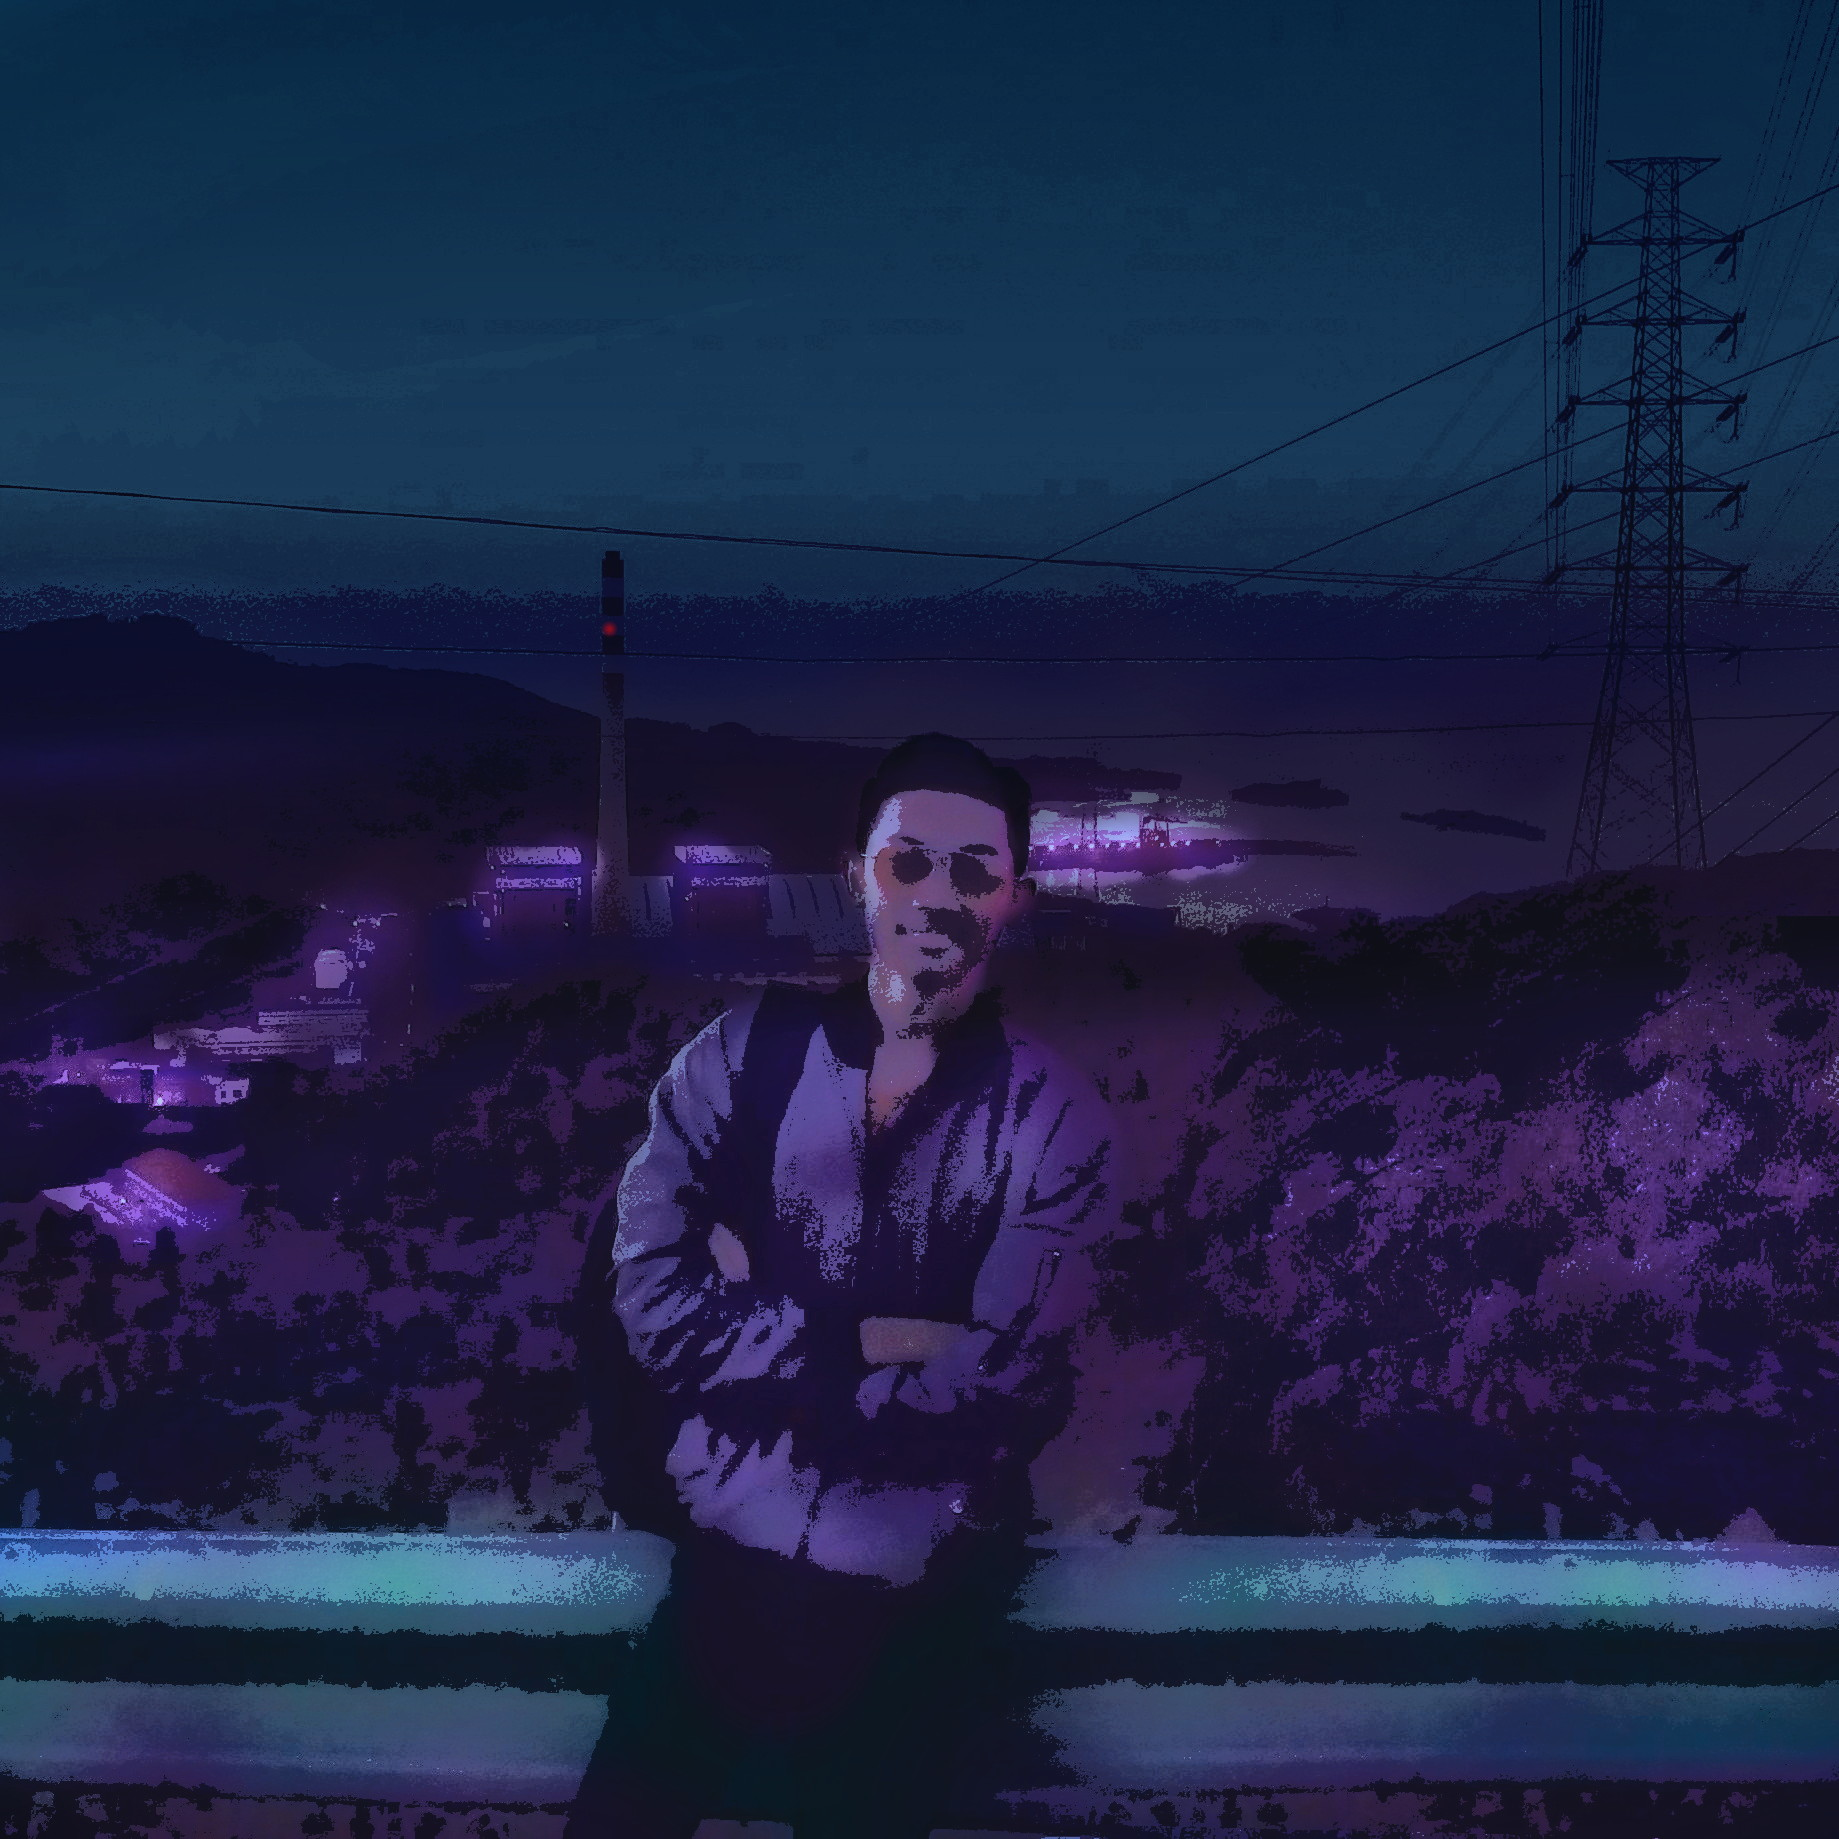
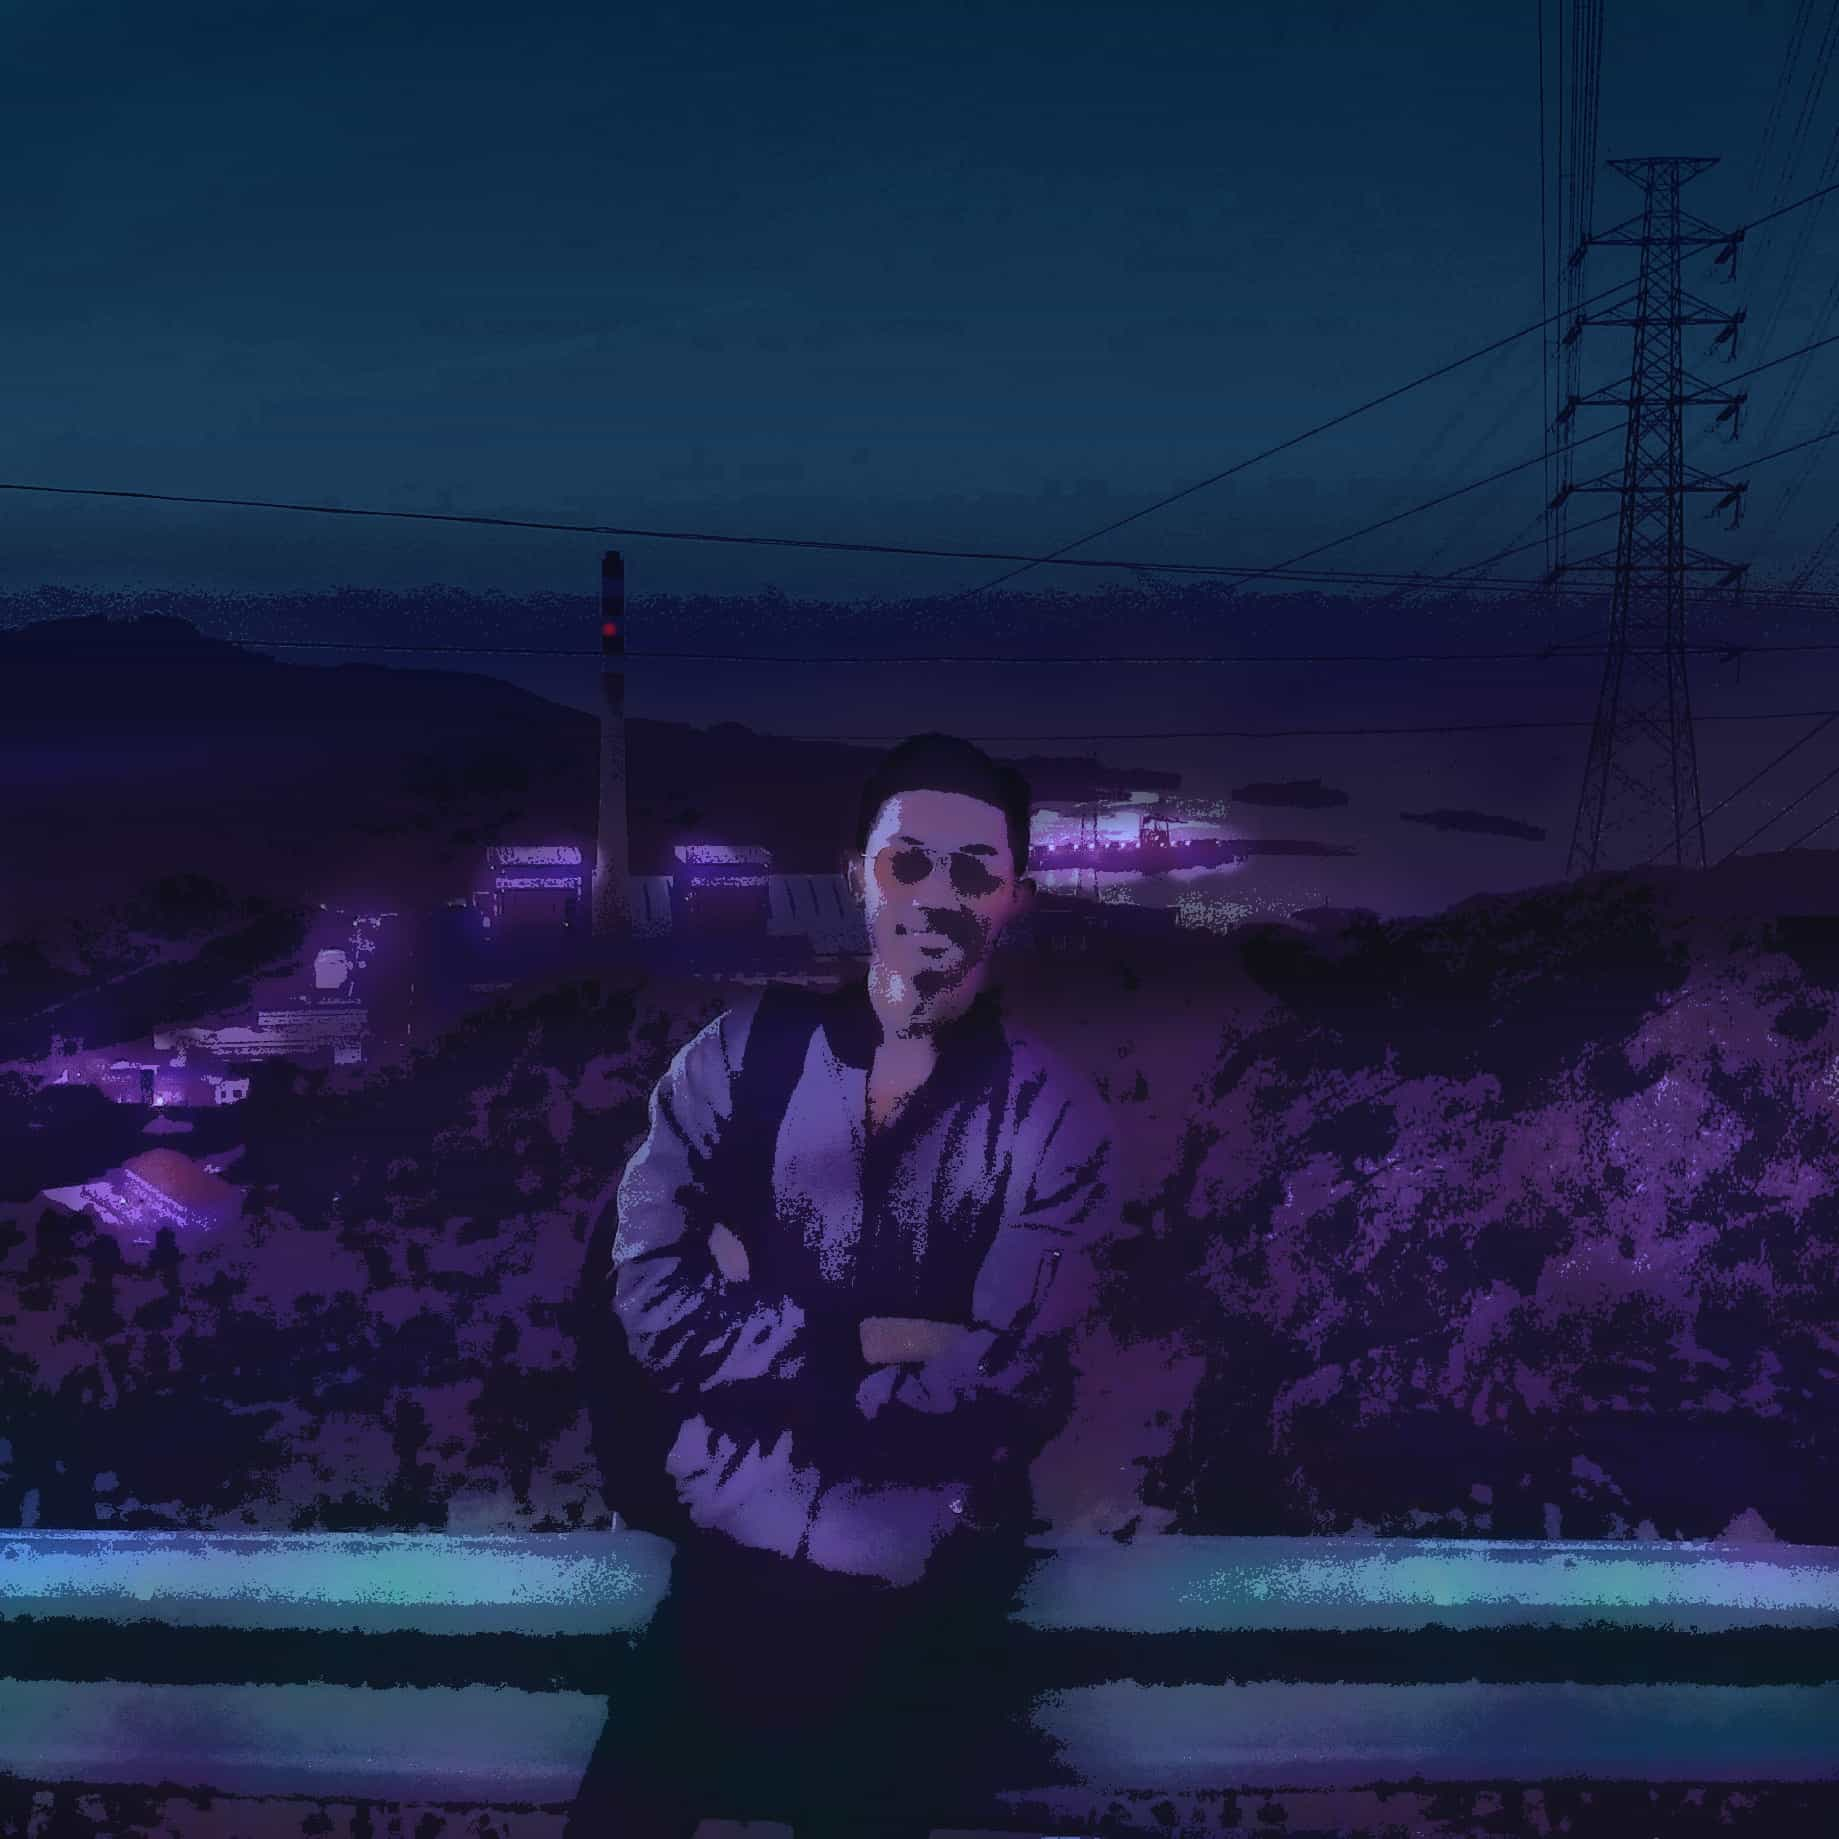
Compress some image

Changed region(s): [[0.4339, 0.6509, 0.4649, 0.6819]]

diff --git a/pages/index.js b/pages/index.js
@@ -22,7 +22,7 @@ export default function Home({ posts }) {
       <div className="divide-y divide-gray-200 dark:divide-gray-700">
         <div className="pt-6 pb-8 space-y-2 md:space-y-5">
           <PictureOfMe />
-          <h1 className="text-3xl text-center font-extrabold leading-9 tracking-tight text-gray-900 dark:text-gray-100 sm:text-4xl sm:leading-10 md:leading-14">
+          <h1 className="pt-5 text-3xl text-center font-extrabold leading-9 tracking-tight text-gray-900 dark:text-gray-100 sm:text-4xl sm:leading-10 md:leading-14">
             Brama Udi <Twemoji emoji="honker clown" size="inherit" />
           </h1>
           <p className="text-lg leading-7 text-gray-900 dark:text-gray-200">
